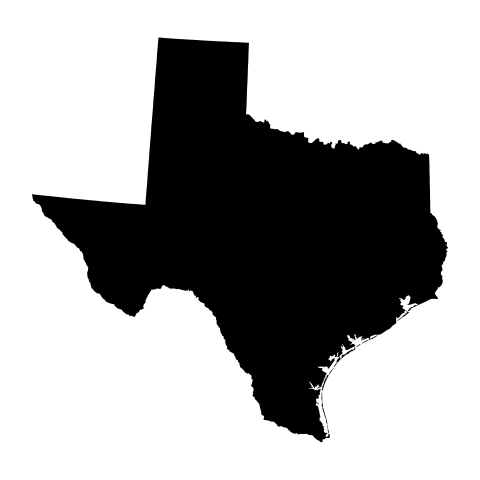
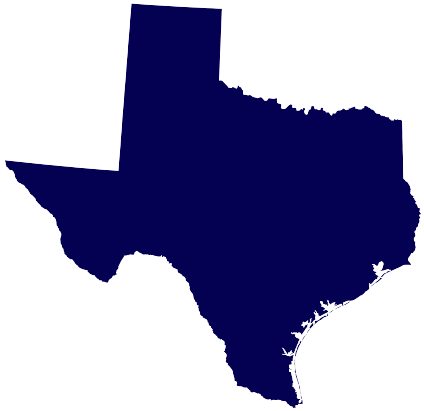
feat: map

diff --git a/es/indice.html b/es/indice.html
@@ -203,21 +203,21 @@
             </h2>
             <div class="flex">
                 <a href="/es/servicios-medicare-illinois.html" class="map">
-                    <img src="/img/illinois.png" alt="Illinois">
+                    <img src="/img/illinois-map.png" alt="Illinois">
                     <p class="text-center">
                         Illinois
                     </p>
                 </a>
 
                 <a href="/es/servicios-medicare-de-wisconsin.html" class="map">
-                    <img src="/img/wisconsin.png" alt="Wisconsin">
+                    <img src="/img/wisconsin-map.png" alt="Wisconsin">
                     <p class="text-center">
                         Wisconsin
                     </p>
                 </a>
 
                 <a href="/es/servicios-medicare-texas.html" class="map">
-                    <img src="/img/texas.png" alt="Texas">
+                    <img src="/img/texas-map.png" alt="Texas">
                     <p class="text-center">
                         Texas
                     </p>

diff --git a/index.html b/index.html
@@ -198,21 +198,21 @@
             </h2>
             <div class="flex">
                 <a href="/illinois-medicare-services.html" class="map">
-                    <img src="/img/illinois.png" alt="Illinois">
+                    <img src="/img/illinois-map.png" alt="Illinois">
                     <p class="text-center">
                         Illinois
                     </p>
                 </a>
 
                 <a href="/wisconsin-medicare-services.html" class="map">
-                    <img src="/img/wisconsin.png" alt="Wisconsin">
+                    <img src="/img/wisconsin-map.png" alt="Wisconsin">
                     <p class="text-center">
                         Wisconsin
                     </p>
                 </a>
 
                 <a href="/texas-medicare-services.html" class="map">
-                    <img src="/img/texas.png" alt="Texas">
+                    <img src="/img/texas-map.png" alt="Texas">
                     <p class="text-center">
                         Texas
                     </p>
